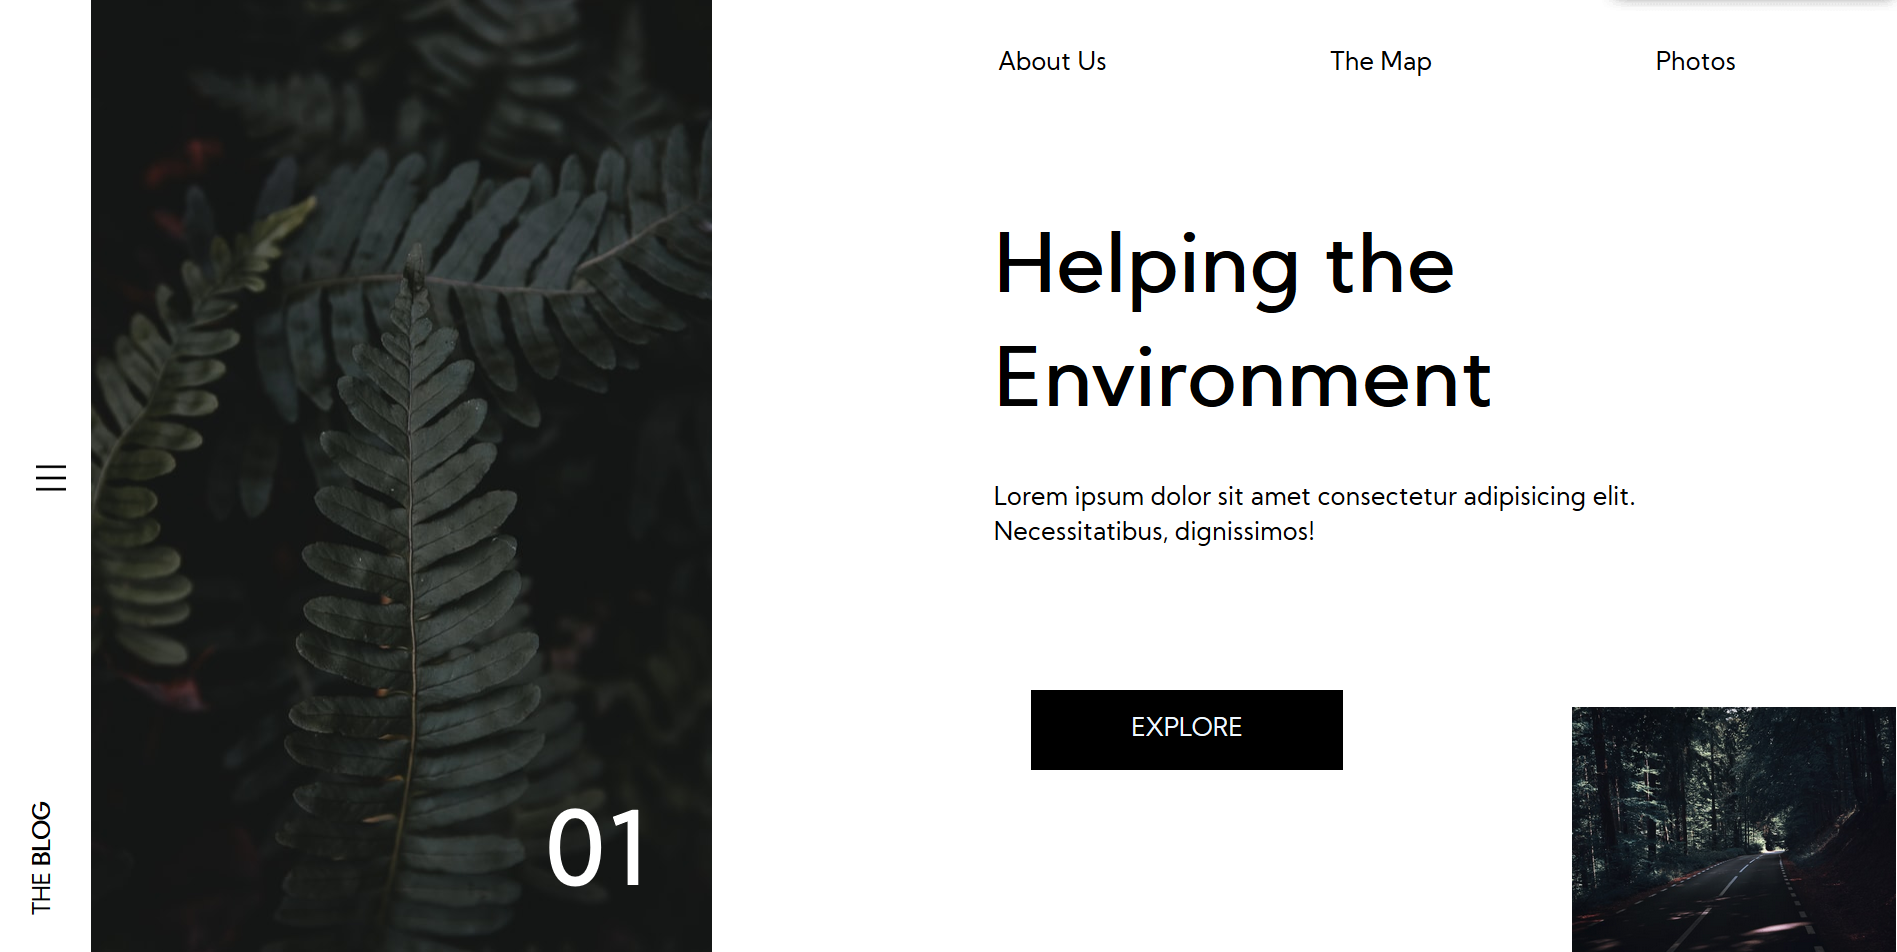
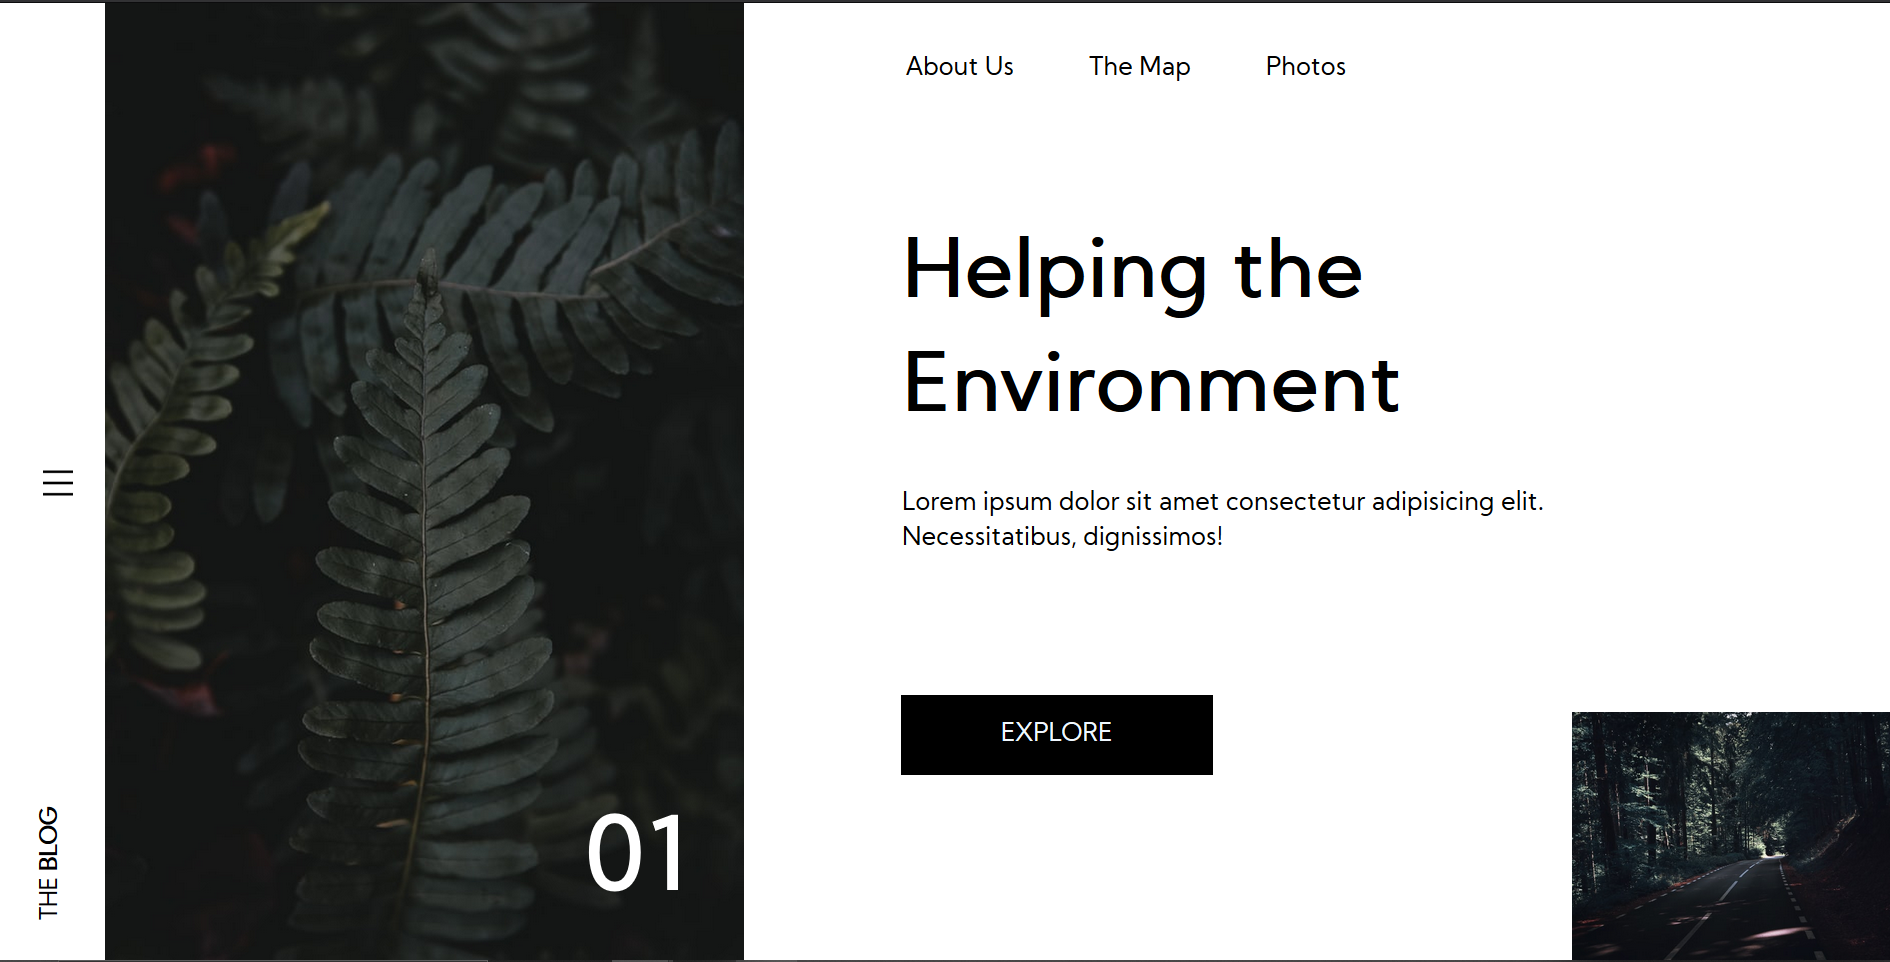
Updated screenshots

diff --git a/Environment/css/stylesheet.css b/Environment/css/stylesheet.css
@@ -53,27 +53,27 @@
 	position: absolute;
 	bottom: 30px;
 	color: white;
-	right: 50px;
+	right: 100px;
 	font-size: 40px;
 }
 
 .nav-list-ele{
 	display: inline;
-	padding: 10px 50px;
+	padding: 10px 30px;	
 	font-size: 20px;
 }
 
 
 .nav-list{
-	margin: 30px auto;
+	margin: 30px 0 30px 43px;
 	display: flex;
-	justify-content: space-evenly;
+	justify-content: left;
 }
 
 
 
 .text{
-	margin: 70px 55px;
+	margin: 70px 0px;
 	width: 70%;
 	float: left;
 	
@@ -105,11 +105,17 @@
 .button{
 	position: absolute;
 	bottom: 150px;
-	margin-left: 100px;
+	margin-left: 69px;
 	text-align: center;
 	color: aliceblue;
 	background-color: black;
 	padding: 20px 80px;
+}
+
+.button:hover{
+	color: black;
+	background-color: white;
+	border: 2px solid black;
 }
 
 
